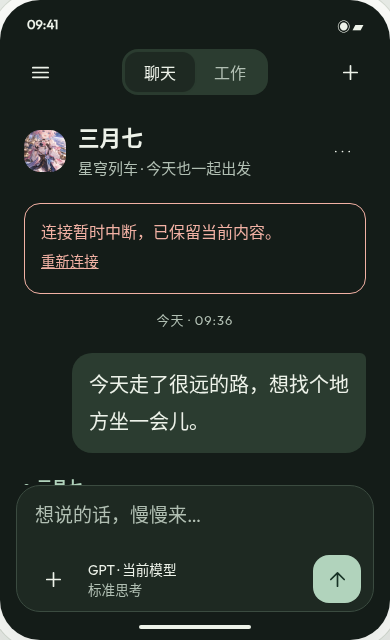
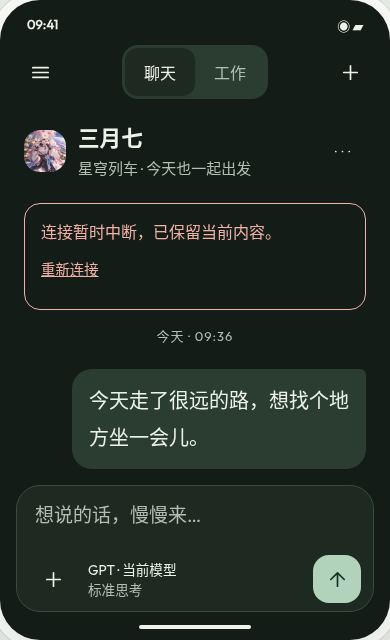
补齐V7全功能链路图集与可复现预览检查

diff --git a/docs/design/v7/mobile/studio.css b/docs/design/v7/mobile/studio.css
@@ -1,2 +1,3 @@
 @font-face{font-family:Outfit;src:url('../../../../app/src/main/res/font/fluid_outfit_400.ttf')}*{box-sizing:border-box}body{margin:0;background:#e8ece7;color:#202923;font-family:Outfit,'Noto Sans CJK SC','Microsoft YaHei',sans-serif;font-size:16px}button,input,textarea{font:inherit}button,a,input,textarea{-webkit-tap-highlight-color:transparent}button{cursor:pointer;color:inherit;border:0;background:transparent}button:focus-visible,a:focus-visible,input:focus-visible,textarea:focus-visible{outline:2px solid #315447;outline-offset:3px}button{min-height:48px}a{color:inherit;text-decoration:none}.review{position:fixed;inset:0 auto 0 0;width:250px;padding:44px 32px;border-right:1px solid #ced6ce;display:flex;flex-direction:column}.wordmark{font-size:38px;font-weight:700;letter-spacing:-3px}.wordmark span{font-size:14px;letter-spacing:0;margin-left:16px}.review p{font-size:12px;letter-spacing:1px;color:#616e63;margin:22px 0}.review nav{display:grid;gap:3px}.review nav a{padding:12px 16px;border-radius:12px;font-size:14px}.review nav a.active{background:#315447;color:white}.review-controls{display:grid;gap:10px;margin-top:auto;font-size:13px}.review input{accent-color:#315447;margin-right:9px}.review small{font-size:11px;color:#5e695f;line-height:1.9;margin-top:24px}.stage{padding:42px 24px 24px;margin-left:250px;display:flex;flex-direction:column;align-items:center}.device{--canvas:#f5f7f3;--paper:#fff;--ink:#202923;--muted:#5f6a61;--line:#d8dfd6;--green:#315447;--ongreen:#fff;--wash:#e7ede3;--lime:#ddeba4;--danger:#993c34;width:390px;height:844px;position:relative;background:var(--canvas);color:var(--ink);border-radius:40px;box-shadow:0 28px 75px #1a2b2520,0 0 0 9px #fbfcf9,0 0 0 10px #d4dad1;overflow:hidden;display:flex;flex-direction:column}.device.dark{--canvas:#141c18;--paper:#1e2922;--ink:#edf2e9;--muted:#b1bfb3;--line:#3b4b40;--green:#b1d3bc;--ongreen:#173225;--wash:#2b3c30;--lime:#d1e48e;--danger:#f2b1a4}.device.large{font-size:20px}.device.short{height:640px}.status{display:flex;justify-content:space-between;padding:16px 27px 8px;font-size:13px;font-weight:600;flex-shrink:0}.home-indicator{height:24px;display:flex;justify-content:center;flex-shrink:0}.home-indicator:after{content:'';width:112px;height:4px;border-radius:2px;background:var(--ink);margin-top:9px}#app{flex:1;display:flex;flex-direction:column;overflow:hidden;min-height:0}.caption{display:flex;justify-content:space-between;width:390px;font-size:12px;color:#5c685e;margin-top:25px}.bar{display:flex;align-items:center;padding:0 16px;min-height:58px;gap:8px;flex-shrink:0}.icon{width:48px;height:48px;display:grid;place-items:center;flex-shrink:0;border-radius:16px}.icon svg,.mini-icon svg{width:23px;height:23px;fill:none;stroke:currentColor;stroke-width:1.75;stroke-linecap:round;stroke-linejoin:round}.icon:hover{background:var(--wash)}.mode{display:flex;align-items:center;background:var(--wash);border-radius:16px;padding:3px;margin:auto;font-size:.8em}.mode button{min-height:40px;padding:0 19px;border-radius:13px;color:var(--muted)}.mode button.active{background:var(--paper);color:var(--ink);box-shadow:0 1px 3px #0000000b}.context{padding:20px 24px 10px;display:flex;gap:12px;align-items:center}.avatar{width:42px;height:42px;object-fit:cover;border-radius:16px}.context h2{font-size:1.08em;margin:0 0 5px;font-weight:600}.sub,.meta{font-size:.75em;color:var(--muted);line-height:1.6}.context .icon{margin-left:auto}.scroll{overflow:auto;flex:1;min-height:0;padding:12px 24px 24px;scrollbar-width:thin}.stamp{text-align:center;font-size:.65em;color:var(--muted);margin:4px 0 24px;letter-spacing:1px}.message{font-size:1em;line-height:1.85;margin:0 0 20px;overflow-wrap:anywhere}.user{margin-left:48px;background:var(--wash);padding:13px 17px;border-radius:20px 6px 20px 20px}.byline{display:flex;align-items:center;gap:8px;color:var(--green);font-size:.75em;font-weight:600;margin-bottom:10px}.byline:before{content:'';width:5px;height:5px;border-radius:50%;background:var(--green)}.assistant p{margin:0 0 14px}.message-actions{display:flex;gap:4px}.message-actions button{min-width:56px;min-height:48px;font-size:.7em;color:var(--muted)}.composer{margin:0 16px 4px;padding:14px 12px 8px;background:var(--paper);border:1px solid var(--line);border-radius:24px;flex-shrink:0}.composer textarea{resize:none;background:none;border:none;color:var(--ink);width:100%;height:50px;max-height:140px;font-size:.95em;padding:0 6px;line-height:1.6}.composer textarea::placeholder{color:var(--muted)}.composer-row{display:flex;align-items:center;gap:3px}.composer-row .model{font-size:.68em;min-height:48px;text-align:left;padding:4px 8px;flex:1;color:var(--muted)}.model b{display:block;color:var(--ink);font-weight:500}.send{background:var(--green);color:var(--ongreen);border-radius:16px}.send:hover{background:var(--green);filter:brightness(.93)}.page-title{padding:18px 24px 12px}.eyebrow{font-size:.64em;letter-spacing:2px;color:var(--muted);margin-bottom:8px}.page-title h1{font-size:1.75em;line-height:1.25;margin:0;font-weight:600;letter-spacing:-.8px}.page-title p{font-size:.8em;line-height:1.8;color:var(--muted);margin:9px 0 0}.title-row{display:flex;align-items:center;justify-content:space-between}.search{display:flex;gap:10px;align-items:center;background:var(--wash);border-radius:16px;padding:0 14px;min-height:48px;margin-bottom:18px}.search input{min-width:0;width:100%;border:none;background:none;color:var(--ink);font-size:.85em}.search input::placeholder{color:var(--muted)}.tabs{display:flex;gap:20px;border-bottom:1px solid var(--line);margin-bottom:20px;overflow-x:auto;flex-shrink:0}.tabs button{font-size:.85em;white-space:nowrap;position:relative;color:var(--muted);padding:0 0 12px}.tabs button.active{color:var(--green);font-weight:600}.tabs button.active:after{position:absolute;bottom:0;left:0;right:0;height:3px;border-radius:3px;content:'';background:var(--green)}.section-head{display:flex;align-items:center;justify-content:space-between;margin:20px 0 12px;font-size:.8em;font-weight:600}.section-head span{color:var(--muted);font-weight:400;font-size:.85em}.portrait-grid{display:grid;grid-template-columns:1fr 1fr;gap:18px 14px}.portrait-tile{text-align:left;padding:0;min-width:0}.portrait-tile img{width:100%;height:195px;object-fit:cover;border-radius:20px}.portrait-tile:nth-child(even){padding-top:24px}.portrait-tile h3{font-size:.95em;font-weight:600;margin:10px 0 4px}.portrait-tile p{font-size:.7em;color:var(--muted);margin:0;line-height:1.6}.badge{font-size:.65em;border:1px solid var(--line);padding:5px 9px;border-radius:8px;color:var(--green);display:inline-flex;gap:6px;align-items:center}.badge:before{content:'';width:4px;height:4px;border-radius:100%;background:currentColor}.badge.focus{background:var(--lime);color:#304121;border:0}.work-panel{padding:20px;border:1px solid var(--line);border-radius:20px;background:var(--paper);margin-bottom:24px}.work-panel h3{font-size:1em;margin:14px 0 8px}.timeline{padding-left:13px}.step{position:relative;border-left:1px solid var(--line);padding:0 0 22px 23px;font-size:.82em;line-height:1.7}.step:before{content:'';position:absolute;left:-4px;top:8px;width:7px;height:7px;border-radius:50%;background:var(--green)}.step:last-child{border-left-color:transparent;padding-bottom:0}.step small{display:block;font-size:.85em;color:var(--muted)}.step.wait:before{background:var(--lime);box-shadow:0 0 0 3px var(--wash)}.file-row,.list-row{width:100%;display:flex;text-align:left;align-items:center;gap:14px;padding:17px 0;border-bottom:1px solid var(--line);min-width:0}.file-row .mini-icon{width:42px;height:48px;display:grid;place-items:center;background:var(--wash);border-radius:10px;color:var(--green);flex-shrink:0}.row-body{flex:1;min-width:0}.row-body strong{display:block;font-size:.9em;font-weight:500;line-height:1.6;overflow-wrap:anywhere}.row-body small{display:block;font-size:.7em;color:var(--muted);line-height:1.7;margin-top:4px}.row-chevron{color:var(--muted);font-size:1.2em}.button{border-radius:16px;padding:12px 18px;background:var(--green);color:var(--ongreen);font-size:.85em}.button.secondary{background:var(--wash);color:var(--ink)}.button.danger{background:var(--danger);color:white}.wide{width:100%}.split{display:flex;gap:10px}.split>*{flex:1}.diary-lead{font-family:serif;font-size:2.7em;margin:8px 0 0;font-weight:400}.diary-rule{height:1px;background:var(--line);margin:22px 0}.diary-entry{font-family:serif;font-size:1.02em;line-height:2.05;padding:10px 0}.diary-entry h3{font-size:1.15em;font-weight:500;margin:4px 0 18px}.diary-entry p{margin:0 0 20px}.task-item{display:grid;grid-template-columns:50px 1fr;gap:16px;border-bottom:1px solid var(--line);padding:20px 0}.task-time{font-size:1.1em;letter-spacing:-.5px}.task-time small{display:block;font-size:.6em;letter-spacing:0;color:var(--muted);margin-top:6px}.task-item h3{font-size:.93em;font-weight:600;margin:0 0 8px}.task-item p{font-size:.75em;color:var(--muted);line-height:1.7;margin:0 0 12px}.settings-label{font-size:.73em;color:var(--muted);margin:26px 0 0}.settings .list-row{padding:16px 0}.settings .mini-icon{color:var(--green);display:flex}.notice{padding:14px 16px;background:var(--wash);font-size:.8em;line-height:1.8;border-radius:16px;margin-bottom:16px}.notice.error{color:var(--danger);border:1px solid var(--danger);background:transparent}.notice button{font-size:.9em;text-decoration:underline;min-height:32px;padding:0}.empty{padding:36px 16px;text-align:center;color:var(--muted);font-size:.85em;line-height:1.8}#overlay:empty{display:none}#overlay{position:absolute;inset:0;z-index:5;display:flex;align-items:flex-end;background:#101b1859}.sheet{width:100%;max-height:88%;overflow:auto;background:var(--paper);padding:8px 24px 28px;border-radius:28px 28px 0 0;animation:rise .24s cubic-bezier(.2,.8,.2,1)}.handle{width:32px;height:4px;border-radius:4px;background:var(--line);margin:0 auto 10px}.sheet-head{display:flex;justify-content:space-between;align-items:center;margin-bottom:14px}.sheet-head h2{font-size:1.2em;margin:0}.sheet p{font-size:.86em;line-height:1.8}.sheet .list-row:last-child{border:0}.drawer{align-self:stretch;width:87%;background:var(--paper);padding:44px 20px 24px;display:flex;flex-direction:column;overflow:auto;animation:slide .22s ease-out;border-radius:0 28px 28px 0}.drawer-brand{font-size:34px;font-weight:600;letter-spacing:-2px;margin:0 12px 20px}.drawer-brand span{font-size:12px;letter-spacing:0;margin-left:14px;color:var(--muted)}.drawer-links{display:grid;margin:16px 0}.drawer-links button{text-align:left;padding:12px;border-radius:12px;font-size:.9em}.drawer-links button:hover,.drawer-links button.current{background:var(--wash)}.drawer .section-head{padding:0 12px}.drawer-history{font-size:.85em;padding:12px;line-height:1.7}.drawer-history small{display:block;color:var(--muted);font-size:.8em;margin-top:4px}.drawer-bottom{margin-top:auto;border-top:1px solid var(--line);padding-top:12px}.scene-in{animation:appear .22s ease-out}.toast{position:absolute;z-index:9;bottom:40px;left:24px;right:24px;background:var(--ink);color:var(--canvas);border-radius:14px;padding:14px 18px;font-size:.8em;line-height:1.7}.detail-portrait{width:100%;height:280px;object-fit:cover;border-radius:20px;margin-bottom:20px}.device.reduced *, .device.reduced *:before{animation:none!important;transition:none!important}button{transition:background .14s,transform .09s}button:active{transform:scale(.985)}@keyframes rise{from{transform:translateY(24px);opacity:.4}}@keyframes slide{from{transform:translateX(-20px);opacity:.5}}@keyframes appear{from{transform:translateY(8px);opacity:.6}}@media(prefers-reduced-motion:reduce){*,*:before{animation:none!important;transition:none!important}}@media(max-width:720px){body{background:#f5f7f3}.review{position:relative;width:100%;border:0;padding:20px;gap:10px}.wordmark{font-size:28px}.review p,.review small{display:none}.review nav{display:flex;overflow:auto;gap:4px}.review nav a{white-space:nowrap;padding:8px 12px}.review-controls{display:flex;gap:14px;flex-wrap:wrap;margin-top:4px}.stage{margin:0;padding:12px 0}.device{width:min(100vw,390px);height:calc(100dvh - 190px);min-height:560px;max-height:844px;border-radius:28px;box-shadow:none}.caption{width:calc(100% - 40px)}.device.short{height:640px;min-height:0}}
 .search svg{width:20px;height:20px;flex-shrink:0;fill:none;stroke:currentColor;stroke-width:1.75;stroke-linecap:round}.context>.mini-icon{width:42px;height:42px;display:grid;place-items:center;background:var(--wash);border-radius:16px;color:var(--green)}[hidden]{display:none!important}
+.mode button{min-height:48px}.tabs button{min-width:48px}.notice button{min-height:48px}.portrait-tile img{height:auto;aspect-ratio:.78}.device.large .portrait-grid{grid-template-columns:1fr}.device.large .portrait-tile:nth-child(even){padding-top:0}.device.reduced button:active{transform:none}@media(prefers-reduced-motion:reduce){button:active{transform:none}}

diff --git a/docs/design/v7/gallery.html b/docs/design/v7/gallery.html
@@ -1,0 +1,14 @@
+<!doctype html><html lang="zh-CN"><meta charset="utf-8"><meta name="viewport" content="width=device-width,initial-scale=1"><title>777 V7 · 全场景设计图集</title><style>*{box-sizing:border-box}body{margin:0;background:#e8ece7;color:#202923;font:16px system-ui,sans-serif;padding:40px}header{max-width:1700px;margin:auto auto 36px;display:flex;align-items:end;justify-content:space-between;gap:20px}h1{font-size:34px;letter-spacing:-1px;margin:0 0 12px}p{color:#58665c;line-height:1.8;margin:0}a{color:#315447}main{display:grid;grid-template-columns:repeat(auto-fit,minmax(280px,1fr));gap:40px 28px;max-width:1700px;margin:auto}figure{margin:0;min-width:0}img{display:block;width:100%;max-width:390px;height:auto;border-radius:32px;border:1px solid #d8dfd6;background:#f5f7f3;box-shadow:0 16px 48px #15271c12}figcaption{display:flex;justify-content:space-between;margin:16px 4px 0;font-size:14px}figcaption span{font-size:12px;color:#626e64}footer{max-width:1700px;margin:40px auto;font-size:13px;color:#58665c;line-height:1.9}@media(max-width:600px){body{padding:24px}header{display:block}header>a{display:inline-block;margin-top:18px}h1{font-size:28px}main{gap:32px}}</style><header><div><h1>777 · 墨白工作室</h1><p>让对话有温度，让工作有条理。<br>V7 手机端全场景设计 / 苔绿、墨白与少量柠黄</p></div><a href="mobile/index.html">打开交互预览 →</a></header><main>
+<figure><a href="mobile/index.html#chat"><img src="previews/chat-light.png" alt="聊天：人物上下文、开放正文与底部输入台"></a><figcaption>01 / 聊天<span>阅读与关系</span></figcaption></figure>
+<figure><a href="mobile/index.html#work"><img src="previews/work-light.png" alt="工作：执行步骤、待确认事项与交付入口"></a><figcaption>02 / 工作<span>执行与交付</span></figcaption></figure>
+<figure><a href="mobile/index.html#personas"><img src="previews/personas-light.png" alt="人物：肖像封面和人物故事"></a><figcaption>03 / 人物图集<span>遇见与故事</span></figcaption></figure>
+<figure><a href="mobile/index.html#diary"><img src="previews/diary-light.png" alt="日记：日期和阅读正文"></a><figcaption>04 / 人物日记<span>时刻与回忆</span></figcaption></figure>
+<figure><a href="mobile/index.html#files"><img src="previews/files-light.png" alt="文件：路径、类型、名称和导入"></a><figcaption>05 / 工作区<span>目录与成果</span></figcaption></figure>
+<figure><a href="mobile/index.html#tasks"><img src="previews/tasks-light.png" alt="自动化：执行时间与真实状态"></a><figcaption>06 / 自动化<span>时间与回执</span></figcaption></figure>
+<figure><a href="mobile/index.html#tools"><img src="previews/tools-light.png" alt="能力中心：插件、技能、连接"></a><figcaption>07 / 能力中心<span>来源与授权</span></figcaption></figure>
+<figure><a href="mobile/index.html#settings"><img src="previews/settings-light.png" alt="设置：搜索与配置分组"></a><figcaption>08 / 设置<span>偏好与配置</span></figcaption></figure>
+<figure><img src="previews/navigation-drawer.png" alt="抽屉导航"><figcaption>09 / 抽屉<span>入口与历史</span></figcaption></figure>
+<figure><img src="previews/approval-sheet.png" alt="待确认事项弹层"><figcaption>10 / 底部弹层<span>确认与继续</span></figcaption></figure>
+<figure><img src="previews/work-pressure.png" alt="工作页深色、大字、短屏与异常状态"><figcaption>11 / 压力状态<span>深色与大字</span></figcaption></figure>
+<figure><img src="previews/settings-pressure.png" alt="设置页深色、大字、短屏与异常状态"><figcaption>12 / 压力状态<span>短屏与异常</span></figcaption></figure>
+</main><footer>设计示例数据用于展示布局与交互。图集截图来自 HTML 设计预览，Android 运行效果与验证结果以当前 Compose 实现和远端设备报告为准。人物画面复用项目现有预设资源。<br>设计依据与功能链路见 <a href="README.zh-CN.md">设计说明</a>。</footer></html>

diff --git a/app/src/main/java/com/shenyan/designsystem/foundation/ShenyanFoundation.kt b/app/src/main/java/com/shenyan/designsystem/foundation/ShenyanFoundation.kt
@@ -40,7 +40,7 @@ data class SyColors(
     val primaryPressed: Color = Color(0xFF244337),
     val onPrimary: Color = Color(0xFFFFFFFF),
     val mint: Color = Color(0xFF75A58C),
-    val lilac: Color = Color(0xFF9B6C63),
+    val lilac: Color = Color(0xFF865950),
     val warning: Color = Color(0xFFBD8A36),
     val danger: Color = Color(0xFFB8473D),
     val selected: Color,
@@ -51,8 +51,8 @@ data class SyColors(
     // Keep decorative accent fills independent from readable text colours.
     val actionFill: Color get() = primary
     val actionInk: Color get() = onPrimary
-    val linkInk: Color get() = syReadableInk(primary, selected)
-    val personaInk: Color get() = syReadableInk(lilac, selected)
+    val linkInk: Color get() = syReadableInk(primary, materialL2)
+    val personaInk: Color get() = syReadableInk(lilac, materialL2)
     val successInk: Color get() = if (text.luminance() < .5f) Color(0xFF2E6755) else mint
     val warningInk: Color get() = if (text.luminance() < .5f) Color(0xFF80511F) else warning
     val dangerInk: Color get() = if (text.luminance() < .5f) Color(0xFF963B30) else Color(0xFFE89B8F)
@@ -93,7 +93,7 @@ private val Light = SyColors(
     border = Color(0xFFD8DFD6), text = Color(0xFF202923),
     textSecondary = Color(0xFF58665C), textTertiary = Color(0xFF5F6A61),
     primary = Color(0xFF315447), primaryPressed = Color(0xFF244337), onPrimary = Color(0xFFFFFFFF),
-    mint = Color(0xFF75A58C), lilac = Color(0xFF9B6C63),
+    mint = Color(0xFF75A58C), lilac = Color(0xFF865950),
     warning = Color(0xFFBD8A36), danger = Color(0xFFB8473D),
     selected = Color(0xFFE7EEDC), overlay = Color(0x66101B18),
     wallpaperTintEnabled = true,

diff --git a/docs/design/v7/verify-preview.py b/docs/design/v7/verify-preview.py
@@ -1,0 +1,90 @@
+#!/usr/bin/env python3
+"""Render and exercise the V7 HTML design preview. No Android build or device claim.
+
+Requires an existing Playwright installation and Chromium; installs nothing.
+Run from any directory: python3 docs/design/v7/verify-preview.py
+"""
+from functools import partial
+from http.server import SimpleHTTPRequestHandler, ThreadingHTTPServer
+from pathlib import Path
+from threading import Thread
+import shutil
+from playwright.sync_api import sync_playwright
+
+ROOT = Path(__file__).resolve().parents[3]
+OUT = Path(__file__).resolve().parent / 'previews'
+ROUTES = ['chat', 'work', 'personas', 'diary', 'files', 'tasks', 'tools', 'settings']
+
+
+class QuietHandler(SimpleHTTPRequestHandler):
+    def log_message(self, *_args):
+        pass
+
+
+def run():
+    chromium = shutil.which('chromium') or shutil.which('google-chrome')
+    if not chromium:
+        raise SystemExit('需要已安装的 Chromium；本脚本不会下载或安装浏览器。')
+    OUT.mkdir(exist_ok=True)
+    server = ThreadingHTTPServer(('127.0.0.1', 0), partial(QuietHandler, directory=str(ROOT)))
+    thread = Thread(target=server.serve_forever, daemon=True)
+    thread.start()
+    url = f'http://127.0.0.1:{server.server_port}/docs/design/v7/mobile/index.html'
+    errors, failed_responses = [], []
+    try:
+        with sync_playwright() as p:
+            browser = p.chromium.launch(executable_path=chromium, args=['--no-sandbox'])
+            page = browser.new_page(viewport={'width': 1200, 'height': 1050})
+            page.on('pageerror', lambda e: errors.append(str(e)))
+            page.on('response', lambda r: failed_responses.append(r.url) if r.status >= 400 else None)
+            for route in ROUTES:
+                page.goto(url + '#' + route)
+                page.wait_for_timeout(250)  # Let the specified 220ms page transition settle for capture.
+                assert page.locator('#app').evaluate('(e)=>e.scrollWidth<=e.clientWidth'), route
+                assert page.locator('img').evaluate_all('(a)=>a.every(i=>i.complete&&i.naturalWidth>0)'), route
+                assert page.locator('#app button').evaluate_all('''(a)=>a.every(e=>{
+                    const r=e.getBoundingClientRect();return r.width>=48&&r.height>=48;
+                })'''), route + ' touch targets'
+                page.locator('#device').screenshot(path=str(OUT / (route + '-light.png')))
+                for k in ['dark', 'large', 'short', 'error', 'reduced']:
+                    page.check('#' + k)
+                assert page.locator('#app').evaluate('(e)=>e.scrollWidth<=e.clientWidth'), route + ' pressure'
+                page.locator('#device').screenshot(path=str(OUT / (route + '-pressure.png')))
+                for k in ['dark', 'large', 'short', 'error', 'reduced']:
+                    page.uncheck('#' + k)
+            page.goto(url + '#work')
+            page.get_by_role('button', name='查看待确认事项').click()
+            assert page.get_by_role('dialog', name='发布前，再确认两件事').is_visible()
+            page.locator('#device').screenshot(path=str(OUT / 'approval-sheet.png'))
+            page.keyboard.press('Escape')
+            assert page.locator('#overlay').evaluate('(e)=>e.childElementCount===0')
+            page.get_by_role('button', name='打开导航').click()
+            page.locator('#device').screenshot(path=str(OUT / 'navigation-drawer.png'))
+            page.get_by_role('button', name='工作区文件', exact=True).click()
+            assert page.url.endswith('#files')
+            page.get_by_role('textbox', name='搜索文件').fill('没有这个文件')
+            assert page.locator('#file-list .file-row:visible').count() == 0
+            page.goto(url + '#chat')
+            page.get_by_role('textbox', name='发送消息').fill('长文本与中文消息交互检查')
+            page.get_by_role('button', name='发送', exact=True).click()
+            assert page.get_by_role('button', name='停止', exact=True).is_visible()
+            page.get_by_role('button', name='停止', exact=True).click()
+            assert page.get_by_role('button', name='发送', exact=True).is_visible()
+            for width in [320, 390, 430]:
+                page.set_viewport_size({'width': width, 'height': 820})
+                page.goto(url + '#personas')
+                page.check('#large')
+                assert page.locator('#app').evaluate('(e)=>e.scrollWidth<=e.clientWidth'), str(width)
+            assert not errors, errors
+            assert not failed_responses, failed_responses
+            browser.close()
+    finally:
+        server.shutdown()
+        server.server_close()
+        thread.join()
+    print('PASS: 8 scenes, 18 captures, 48px targets, state variants, 320/390/430px, images, drawer/sheet/search/send/stop.')
+    print('HTML design preview only; Android runtime evidence is separate.')
+
+
+if __name__ == '__main__':
+    run()

diff --git a/docs/design/v7/FUNCTION-FLOWS.zh-CN.md b/docs/design/v7/FUNCTION-FLOWS.zh-CN.md
@@ -1,0 +1,108 @@
+# 777 V7 · 模块与界面运行图
+
+基准：`main@5fbfb372`。本文件说明重新设计需要保留的产品行为；没有把设计示例当成运行事实。
+
+## 入口与所有权
+
+`LocalFeatureCatalog` 注册六个 Feature、七个稳定路由。`LocalFeaturePageContent` 按唯一 Owner 选择贡献；`LocalHarnessScreen` 承载栈、抽屉与会话，不接管 Feature 的写入。
+
+| 一级路由 | 实际入口 | 状态来源 / 提交方式 |
+| --- | --- | --- |
+| HOME | `LocalConversationSurface` | 聊天/工作 presentation；发送、停止、排队、当前轮干预由既有动作执行 |
+| PERSONA_GALLERY | `LocalChatUiContribution → PersonaGalleryScreen` | 图集、人物和故事的 Chat 动作；切回首页等待对应会话确实加载 |
+| DIARY | `LocalChatUiContribution → CharacterDiaryScreen` | 日记读取、修正、停用和来源会话定位分别走原动作 |
+| WORKSPACE | `LocalWorkUiContribution → LocalWorkspaceFilesDialog` | Work 文件动作；打开路径与入口请求参与导航和选择作用域 |
+| TASKS | `TasksScreen` | Automation 任务状态、操作忙碌集合、编辑保存回执 |
+| TOOLS | `ToolsScreen` | Tools 状态与实际目录；详情中的安装、连接和授权沿用原 ViewModel |
+| SETTINGS | `SettingsScreen` | 设置页栈与搜索索引；配置提交仍归实际能力 Owner |
+
+源码目录均位于 `app/src/main/java/com/labteto/dshmobile`。运行与数据边界详见 `docs/ARCHITECTURE.md`。
+
+## 聊天与人物
+
+入口：选择已有会话 / 新建 / 图集继续 / 群聊。
+
+1. 恢复 Session 与其人物、故事和模式；输入框保留草稿和附件。
+2. 选择模型、思考档位及当前可用能力；附件导入显示实际处理状态。
+3. 发送后显示流式正文；运行中的主要按钮变为停止，停止交给真实运行 Owner。
+4. 群聊显示成员与当前发言人；退出群聊、换人物、新会话、置顶、重命名、删除保留原入口和禁用条件。
+5. 图集继续明确人物 ID 和故事 ID，不用人物名称或“当前故事”猜测归属。未保存修改仍提示保存，失败保留当前编辑。
+6. 图集详情保留资料、肖像、故事、历史消息分页、检查与建议、导入导出、删除故事/人物、创建新故事等流程。
+7. 图集管理使用原列表，保留多选、置顶、拖动排序和操作回执；浏览使用新的肖像封面。
+8. 日记从原记录投影出日期与正文，仍能展开来源记录、纠正或停用并返回对应源消息。
+
+V7 优先展示人物名、关系上下文和正文，长操作进入详情与弹层。人物封面没有图片时用文字封面，不借用其他人物图片。
+
+## 工作、工具与交付
+
+入口：工作会话 / 文件触发 / 自动化运行 / 工作会话历史。
+
+1. 用户描述目标，可带附件、计划模式或团队派发。
+2. 原 Agent / Tool 运行持有 Run 与配置身份；界面消费公开步骤、工具状态和回执。
+3. 等待审批、等待提问、工具运行、后台等待、失败和完成分别展示；关闭弹层不自动同意。
+4. 运行中补充要求保留“干预当前轮”和“下一轮排队”的区别；关闭干预选项恢复下一轮默认。
+5. 团队的成员、子任务、返回和汇总仍使用真实计数；成员已返回不等于成果已合并。没有任务总量时不生成假百分比。
+6. 工具回执、调查线索、文件链接和成果版本继续可展开。顶栏摘要与会话菜单共用已有工作记录/交付动作。
+7. 只有原写入回执确认的成果才显示正式保存；文件刷新失败与写入失败不混为一个成功/失败判断。
+
+V7 的原生共用表面、字号、状态、页栏、抽屉和弹层进入这条真实链路；HTML 中的周报步骤和文件是构图样例。
+
+## 文件与项目
+
+入口保留任务、成果、其他文件和项目管理。浏览目录 → 路径导航 → 文件预览 → 编辑/打开/分享；更多操作保留项目、代码审查与下载。
+
+- 搜索结果可以显示完整相对路径，不仅显示同名文件名。
+- 选择状态由现有 `LocalFileSelectionUi` 管理；普通刷新保留选择，完整目录结果才核对已消失文件，分页缺席不是删除。
+- 项目/目录/分类/入口请求变化依旧参与选择与预览作用域。
+- 导入展示实际处理中和结果，不凭界面动画判定导入完成。
+- 预览保留长文件分页、附件与文档入口，返回先退出预览/下级目录。
+
+V7 加强文件名和元信息的字号，选中态使用清晰的实体底色，浏览页保持稳定的文件行。
+
+## 自动化
+
+入口：手动新建、从对话创建、打开已有任务。
+
+编辑内容与调度 → 提交保存 → 受理回执 → 真实任务状态 → 到时后台执行 → 结果会话 / 交付。操作可为暂停、恢复、取消、立即运行、再次编辑；`busyIds` 与保存状态继续约束重复操作，拒绝和异常保留反馈。一次性任务、循环任务、等待用户、执行中、已暂停和终态使用现有状态判定。
+
+V7 将状态、任务标题和下一次执行/上次执行时间排列为更明确的时间行。筛选数量来自真实任务，筛选为空不伪装为整体没有任务。
+
+## 能力中心
+
+- 插件：发现 / 已添加、搜索和用途筛选 → 完整详情 → 来源/权限 → 安装和启用 → 原始结果。
+- 技能：发现 / 已添加 → 文件与说明 → 安装/编辑/删除 → 实际技能目录刷新。
+- 连接：现有连接 / 添加连接 → 端点与凭据 / GitHub / OAuth → 授权回调 → 注册与工具发现 → 健康状态。
+- 已安装、已授权、已注册、已发现工具、健康可用是不同事实；打开授权网页和安装按钮动画不算成功。
+- 返回目录保留当前页签与查询，切换页签不额外重新拉取全部目录。
+
+V7 用清晰页签、来源和状态组织信息，短参数使用弹层，长详情继续用完整页面。
+
+## 设置的全部二级入口
+
+页面以 `SettingsDestination` 和 `SettingsSearchIndex` 为准，搜索仍执行原跳转、锚点定位与返回恢复。
+
+| 分组 | 子页面与功能 |
+| --- | --- |
+| 体验 | SESSION 会话；APPEARANCE 明暗、配色、阅读、壁纸、透明度、环境光和动效；CHAT 聊天偏好 |
+| 模型 | MODELS 提供商、API模型、图片输入；MODEL_PERFORMANCE 思考、温度、上下文与性能；ACCOUNT 账户与授权 |
+| 用量 | MODEL_USAGE 模型用量；MINIMAX_QUOTA 配额；PRICING 定价；USAGE 消耗计算；USAGE_LOG 请求记录；USAGE_DETAIL 单项详情 |
+| 记忆 | MEMORY 总入口；MEMORY_SETTINGS 规则；MEMORY_MANAGEMENT 内容搜索、类型与分页管理 |
+| 设备 | PERMISSIONS 执行确认、无障碍、通知读取、虚拟显示等；NOTIFICATIONS 系统许可、任务通知与免打扰 |
+| 维护 | ADVANCED 运行策略等；SESSION_STORAGE 存储/备份/导入导出；DIAGNOSTICS 运行诊断 |
+| 导航 | ROOT 分组入口；SEARCH 别名检索、定位与返回恢复 |
+
+配置输入 → 对应 Feature / Shared 配置 Owner → 成功/失败回执 → 页面投影。秘钥不进入可恢复 UI 状态；首次引导和系统授权继续保留最新主线的初始化与返回检查。V7 共用控件进入这些既有表单，没有另造展示专用设置数据。
+
+## 所有场景必须具备的状态
+
+| 状态 | 用户看到什么 | 可执行动作 |
+| --- | --- | --- |
+| 初始为空 | 对应任务解释，不使用假数据填充 | 创建、导入或配置 |
+| 加载/运行 | 当前真实步骤或不确定进度 | 等待、按原契约取消/停止 |
+| 等待用户 | 具体问题、授权范围或待确认事项 | 明确确认、拒绝或稍后处理 |
+| 成功 | 持久化/执行回执和可访问结果 | 查看、继续或分享 |
+| 失败 | 可理解原因和现有内容 | 重试原操作、修正输入或检查配置 |
+| 取消/中断 | 已停止或状态尚待核实 | 查看结果，不擅自重放副作用 |
+| 重开/恢复 | 已恢复的真实 Session、任务或配置 | 沿原 Owner 继续，不重建一份任务 |
+
+设计及源码变更不等于所有运行分支已经实测。原型检查、静态检查、JVM、Android 编译和设备回归分别记录。

diff --git a/docs/design/v7/README.zh-CN.md b/docs/design/v7/README.zh-CN.md
@@ -2,6 +2,8 @@
 
 基于 `main@5fbfb372` 的手机端重新设计。采用上传的《UI设计专项导演 V6.3.2》和 ui-ux-pro-max：前者决定任务、构图、状态和视觉交付，后者补充对比度、48dp 触控、动效降级、焦点与 Compose 状态规范。风格选择由本次设计提出，尚无用户对具体颜色的确认。
 
+完整入口、子功能、状态与流转见 [模块与界面运行图](FUNCTION-FLOWS.zh-CN.md)。
+
 ## 产品结构与真实运行逻辑
 
 | 场景 / Owner | 主要链路 | 界面信息与返回规则 |
@@ -9,7 +11,7 @@
 | 首页 / SHELL | 启动恢复 → 路由 → CHAT / WORK 的 Feature 投影 | 模式开关、抽屉、当前会话；不创建第二个运行状态 |
 | 聊天 / CHAT | 选择人物或群聊 → 草稿/附件 → 模型与思考档位 → 流式回复 → 会话、关系与记忆 | 阅读优先，保留人物上下文、群聊发言人、停止、重试、回复建议、历史分页 |
 | 人物图集 / CHAT | 预设/导入/新建 → 编辑资料与肖像 → 精确保存人物/故事 → 进入对应会话 | 图片主导、资料和故事次级；编辑未保存状态、排序、置顶、多选和删除仍保留 |
-| 人物日记 / CHAT | 人物选择 → 日期与记录 → 查看/生成 → 持久化结果 | 文学式日期与正文；空记录、加载、失败与生成中分别呈现 |
+| 人物日记 / CHAT | 人物选择 → 日期与记录 → 查看/修正/停用 → 持久化结果 | 文学式日期与正文；空记录、加载、失败与生成中分别呈现 |
 | 工作 / WORK | 请求/附件/计划/团队 → Agent 执行 → 工具/审批/提问 → 成果版本与工作记录 | 任务状态、步骤、等待用户与交付文件优先；运行中区分干预当前执行与排队下一轮 |
 | 工作区 / WORK | 项目/任务/成果/其他文件 → 路径浏览 → 预览/编辑/分享 → 写入回执 → 刷新 | 文件行与路径导航；多选不被刷新清空；项目、代码审查、下载和导入仍在更多菜单 |
 | 自动化 / AUTOMATION | 新建/对话创建 → 时间/触发配置 → 受理 → 后台执行 → 会话/结果 | 以时间和真实状态组织；暂停/恢复/取消/立即运行展示处理中与拒绝，禁止虚假进度 |
@@ -41,7 +43,7 @@
 
 ## 交付与验证边界
 
-`mobile/index.html` 是可离线打开的交互设计预览，内含聊天、工作、人物、日记、文件、自动化、能力、设置、抽屉与弹层，以及深色/短屏/大字/异常模式。**示例数据仅用于设计，不代表设备运行事实。** Android 实现沿用原路由和回调，实际实现范围与验证结果见提交说明；原型截图不能作为 Android 真机验收。
+[全场景图集](gallery.html)提供八个场景、抽屉、弹层与压力状态的总览。`mobile/index.html` 是可离线打开的交互设计预览，内含聊天、工作、人物、日记、文件、自动化、能力、设置、抽屉与弹层，以及深色/短屏/大字/异常模式。**示例数据仅用于设计，不代表设备运行事实。** Android 实现沿用原路由和回调，实际实现范围与验证结果见提交说明；原型截图不能作为 Android 真机验收。
 
 执行顺序：梳理路由与状态 → 交互预览 → 共用令牌与原生控件 → 逐场景接入 → 静态边界和浏览器交互检查 → 提交与远端验证。按用户要求不使用子代理、不进行本地编译或构建。
 
